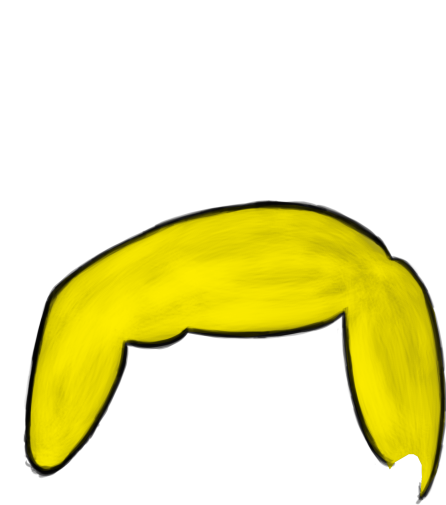
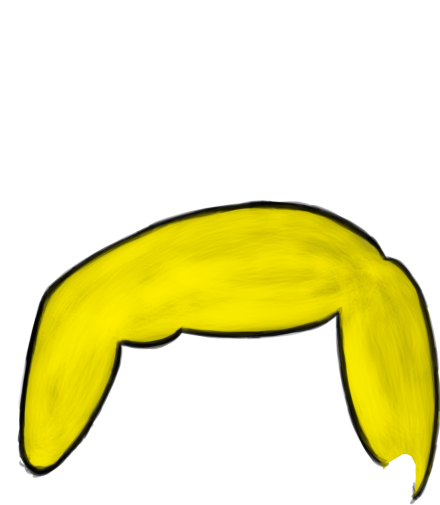
Added shoulders to faces

diff --git a/core/src/fi/tamk/rikollisentunnistus/Face.java b/core/src/fi/tamk/rikollisentunnistus/Face.java
@@ -12,6 +12,7 @@ import com.badlogic.gdx.scenes.scene2d.Actor;
 public class Face extends Actor {
     private float originalScale;
 
+    private Texture baseImg;
     private Texture faceShapeImg;
     private Texture hairImg;
     private Texture eyesImg;
@@ -24,7 +25,7 @@ public class Face extends Actor {
 
     boolean active;
 
-    public Face(Texture[] faceShapes, Texture[] hairs,
+    public Face(Texture[] bases, Texture[] faceShapes, Texture[] hairs,
                 Texture[] eyes, Texture[] noses, Texture[] mouths) {
         originalScale = 1f;
 
@@ -34,6 +35,7 @@ public class Face extends Actor {
         int randomNose = MathUtils.random(0, noses.length - 1);
         int randomMouth = MathUtils.random(0, mouths.length - 1);
 
+        baseImg = bases[randomFaceShape%3];
         faceShapeImg = faceShapes[randomFaceShape];
         hairImg = hairs[randomHair];
         eyesImg = eyes[randomEyes];
@@ -52,7 +54,7 @@ public class Face extends Actor {
         active = false;
     }
 
-    public Face(Texture[] faceShapes, Texture[] hairs, Texture[] eyes,
+    public Face(Texture[] bases, Texture[] faceShapes, Texture[] hairs, Texture[] eyes,
                 Texture[] noses, Texture[] mouths, int[] attributes, boolean useSameAttributes) {
         originalScale = 1f;
 
@@ -157,6 +159,7 @@ public class Face extends Actor {
 
         idCode = faceShapeId + "-" + hairId + "-" + eyesId + "-" + noseId + "-" + mouthId;
 
+        baseImg = bases[faceShapeId%3];
         faceShapeImg = faceShapes[faceShapeId];
         hairImg = hairs[hairId];
         eyesImg = eyes[eyesId];
@@ -184,7 +187,7 @@ public class Face extends Actor {
     }
 
     public float getSpriteWidth() {
-        return faceShapeImg.getWidth() + 40f;
+        return baseImg.getWidth();
     }
 
     public int[] getFeatureIds() {
@@ -207,32 +210,37 @@ public class Face extends Actor {
     public void draw(Batch batch, float alpha) {
         float scale = originalScale * getScaleX();
 
-        batch.draw(faceShapeImg,getX()-faceShapeImg.getWidth()*scale/2,getY(),
+        batch.draw(baseImg, getX() - baseImg.getWidth()*scale/2, getY(),
+                baseImg.getWidth()*scale, baseImg.getHeight()*scale);
+
+        batch.draw(faceShapeImg,getX()-faceShapeImg.getWidth()*scale/2,
+                getY() + baseImg.getHeight()*scale/5,
                 faceShapeImg.getWidth()*scale,faceShapeImg.getHeight()*scale);
 
         batch.draw(eyesImg, getX() + (4.5f/25f*faceShapeImg.getWidth() - eyesImg.getWidth()/2)*scale,
-                getY() + (9/16f*faceShapeImg.getHeight() - eyesImg.getHeight()/2)*scale,
+                getY()+ baseImg.getHeight()*scale/5 + (9/16f*faceShapeImg.getHeight() - eyesImg.getHeight()/2)*scale,
                 eyesImg.getWidth()*scale, eyesImg.getHeight()*scale);
         batch.draw(eyesImg, getX() - (4.5f/25f*faceShapeImg.getWidth() + eyesImg.getWidth()/2)*scale,
-                getY() + (9/16f*faceShapeImg.getHeight() - eyesImg.getHeight()/2)*scale,
+                getY()+ (baseImg.getHeight()/5 + 9/16f*faceShapeImg.getHeight() - eyesImg.getHeight()/2)*scale,
                 eyesImg.getWidth()*scale, eyesImg.getHeight()*scale,
                 0, 0, eyesImg.getWidth(), eyesImg.getHeight(),
                 true, false);
         batch.draw(noseImg, getX() - (noseImg.getWidth()/2)*scale,
-                getY() + ((2/5f*faceShapeImg.getHeight() - noseImg.getHeight()/2))*scale,
+                getY()+ (baseImg.getHeight()/5 + (2/5f*faceShapeImg.getHeight() - noseImg.getHeight()/2))*scale,
                 noseImg.getWidth()*scale, noseImg.getHeight()*scale);
         batch.draw(mouthImg, getX() - (mouthImg.getWidth()/2)*scale,
-                getY() + (5/18f*faceShapeImg.getHeight() - 1/2f*mouthImg.getHeight())*scale,
+                getY()+ (baseImg.getHeight()/5 + 5/18f*faceShapeImg.getHeight() - 1/2f*mouthImg.getHeight())*scale,
                 mouthImg.getWidth()*scale,mouthImg.getHeight()*scale);
 
 
         if (accessoryImg != null) {
-            batch.draw(accessoryImg, getX() - (accessoryImg.getWidth()/2)*scale, getY(),
+            batch.draw(accessoryImg, getX() - (accessoryImg.getWidth()/2)*scale,
+                    getY()+ baseImg.getHeight()*scale/5,
                     accessoryImg.getWidth()*scale,accessoryImg.getHeight()*scale);
         }
 
         batch.draw(hairImg, getX() - (hairImg.getWidth()/2)*scale,
-                getY()+ (faceShapeImg.getHeight() - hairImg.getHeight()/2)*scale,
+                getY()+ (baseImg.getHeight()/5+ faceShapeImg.getHeight() - hairImg.getHeight()/2)*scale,
                 hairImg.getWidth()*scale, hairImg.getHeight()*scale);
     }
 

diff --git a/core/src/fi/tamk/rikollisentunnistus/RowConstructor.java b/core/src/fi/tamk/rikollisentunnistus/RowConstructor.java
@@ -20,6 +20,7 @@ public class RowConstructor {
     private boolean sameNose;
     private boolean sameMouth;
 
+    Texture[] baseTextures;
     Texture[] faceShapeTextures;
     Texture[] hairTextures;
     Texture[] eyesTextures;
@@ -49,6 +50,14 @@ public class RowConstructor {
             noseTextures[i]  = new Texture(stringPath);
         }
 
+        fileArray = Gdx.files.internal("mouths").list();
+        mouthTextures = new Texture[fileArray.length];
+
+        for (int i = 0; i < fileArray.length; i++) {
+            stringPath = fileArray[i].path();
+            mouthTextures[i]  = new Texture(stringPath);
+        }
+
         fileArray = Gdx.files.internal("faceShapes").list();
         faceShapeTextures = new Texture[fileArray.length];
 
@@ -57,12 +66,12 @@ public class RowConstructor {
             faceShapeTextures[i]  = new Texture(stringPath);
         }
 
-        fileArray = Gdx.files.internal("mouths").list();
-        mouthTextures = new Texture[fileArray.length];
+        fileArray = Gdx.files.internal("bases").list();
+        baseTextures = new Texture[fileArray.length];
 
         for (int i = 0; i < fileArray.length; i++) {
             stringPath = fileArray[i].path();
-            mouthTextures[i]  = new Texture(stringPath);
+            baseTextures[i]  = new Texture(stringPath);
         }
 
         fileArray = Gdx.files.internal("hairs").list();
@@ -208,7 +217,7 @@ public class RowConstructor {
     private Face[] generateTheFaces() {
         Face[] row = new Face[rowLength];
 
-        row[0] = new Face(faceShapeTextures, hairTextures, eyesTextures,
+        row[0] = new Face(baseTextures, faceShapeTextures, hairTextures, eyesTextures,
                 noseTextures, mouthTextures);
         int[] attributes = row[0].getFeatureIds();
 
@@ -245,7 +254,7 @@ public class RowConstructor {
             Face criminal;
             boolean sameFound = false;
 
-            criminal = new Face(faceShapeTextures, hairTextures, eyesTextures,
+            criminal = new Face(baseTextures, faceShapeTextures, hairTextures, eyesTextures,
                     noseTextures, mouthTextures, attributes, useSameAttributes);
 
                 for (int i = 0; i < row.length; i++) {

diff --git a/core/src/fi/tamk/rikollisentunnistus/CriminalScreen.java b/core/src/fi/tamk/rikollisentunnistus/CriminalScreen.java
@@ -12,6 +12,7 @@ import com.badlogic.gdx.scenes.scene2d.ui.Image;
 import com.badlogic.gdx.scenes.scene2d.ui.Label;
 import com.badlogic.gdx.scenes.scene2d.ui.Skin;
 import com.badlogic.gdx.utils.viewport.FitViewport;
+import com.badlogic.gdx.utils.viewport.StretchViewport;
 
 /**
  * Created by Essi Supponen on 23/02/2018.
@@ -54,7 +55,7 @@ public class CriminalScreen implements Screen {
         stage = new Stage(new FitViewport(camera.viewportWidth,camera.viewportHeight));
 
         criminal = rightCriminal;
-        criminal.changeScale(0.75f);
+        criminal.changeScale(0.7f);
         criminal.setLocation(width/2, -height);
         MoveToAction moveUp = new MoveToAction();
         moveUp.setPosition(width/2, height/6);
